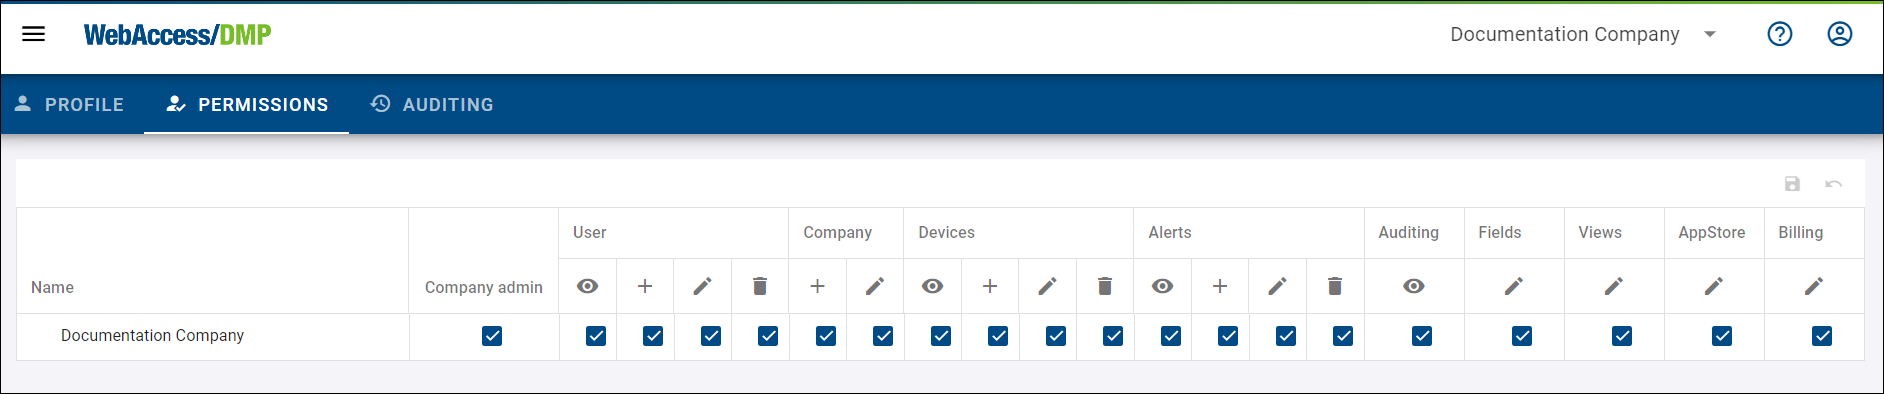
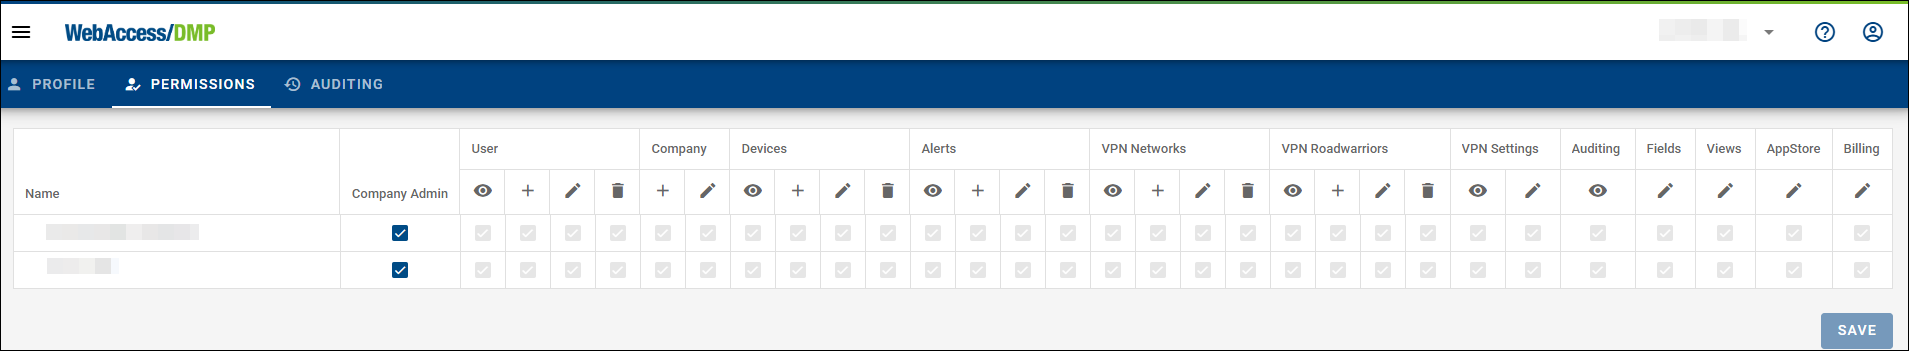
Updating VPN section according to feedback.

diff --git a/src/gen3/docs/vpn/networks/README.md b/src/gen3/docs/vpn/networks/README.md
@@ -1,8 +1,10 @@
-# Networks
+# Networks & Devices
 
 - Start by navigating to the VPN section in the Context Panel, then select the Networks section.
 
-![VPN Networks](../../images/vpn/vpn_networks_select.png)
+<p align="center">
+  <img src="../../images/vpn/vpn_networks_select.png" alt="VPN Networks">
+</p>
 
 - Here you'll be able to add new networks by clicking the **ADD** button.
 
@@ -12,9 +14,9 @@
 
 ![VPN Networks](../../images/vpn/vpn_networks_addnetwork.png)
 
-1. **All to All** &rarr; *All to All* refers to a network configuration where all devices or endpoints are connected to each other, allowing direct communication between every device in the network without restrictions. Each device can send and receive data to/from any other device.
+1. **All to All** &rarr; *All to All* refers to a network configuration where all devices are connected to each other, allowing direct communication between every device in the network without restrictions. Each device can send and receive data to and from any other device. Roadwarriors have a special role → they can see all devices, but the devices do not see them, so the Roadwarrior must initiate the communication. Roadwarriors also do not see each other.
 
-2. **Master to Slave** &rarr; *Master to Slave* refers to a network configuration where the Master device or server controls and manages the connections, while the Slave devices or clients follow the instructions and configurations set by the Master, often for centralized management and control.
+2. **Master to Slave** &rarr; *Master-to-Slave* refers to a network configuration where the Master device (server) controls and manages the connections, while the Slave devices follow its instructions. This setup is often used for centralized management and control. The Master and Slave devices always see each other, but a Slave device does not see other Slaves. Roadwarriors have a special → role they can see all devices (both Master and Slave), but the devices do not see them, so the Roadwarrior must initiate the communication. Roadwarriors do not see each other.
 
 - Once you've created your networks, you can either enter them by clicking on their name, or edit/delete them using the options on the right side of each line.
 ![VPN Networks](../../images/vpn/vpn_networks_select_2.png)
@@ -27,6 +29,8 @@
 
 ![VPN Networks](../../images/vpn/vpn_networks_add-device.png)
 
+- Using *Add Device*, a Roadwarrior can also be added to the network, and all of them are Clients.
+
 - You can now either enter your device by clicking its name, or use the options on the right side of its line to access the *Proxy Link*, edit its role, or delete it.
 
 ![VPN Networks](../../images/vpn/vpn_networks_proxy.png)
@@ -35,11 +39,12 @@
 
 ![VPN Networks](../../images/vpn/vpn_networks_master-slave.png)
 
+## Main VPN Device Interface 
+
 - Once you're in the device's VPN interface, you can configure the following settings:
 
-### Main VPN device interface
-
-1. Edit device VPN networks.
+1. Disable or Enable VPN client of the device
+2. Edit device VPN networks.
 
 ![VPN Networks](../../images/vpn/vpn_device_edit-networks.png)
 
@@ -49,7 +54,7 @@
 
 1. In the Proxy section, you can disable the proxy and reset its URL using the **DISABLE PROXY** and **RESET URL** buttons.
 
-2. You can add additional Proxy links, where you can specify the Local IP, CIDR, and Local Interface of the device.
+2. You can add additional Proxy links, where you can specify the Local IP, CIDR, and Local Interface of the device. This is useful when you have a device with a Web User Interface behind the router and want to access it directly via VPN. You need to know the address of the local network where the device behind the router is accessible. Note that adding a proxy link will expose the link to the Internet (it will automatically add a LAN interface on the LANs tab).
 
 ![VPN Networks](../../images/vpn/vpn_device-proxy_add.png)
 
@@ -63,11 +68,17 @@
 
 ![VPN Networks](../../images/vpn/vpn_device_lans_edit-subnet.png)
 
-2. Add additional LAN interfaces by clicking the **ADD** button.
+2. Add additional LAN interfaces by clicking the **ADD** button. Adding a LAN interface enables direct access via VPN to any device behind the router. 1:1 NAT is used; to find the VPN IP address of your locally known device, use the provided address translator (magnifying glass icon for the added interface).
 
 ![VPN Networks](../../images/vpn/vpn_device_lans_add-lan-interface.png)
 
 3. Delete the LAN interfaces from the device.
+
+4. Access Local Address Translator. You can then access your device directly in the VPN network, e.g., via SSH.
+
+<p align="center">
+  <img src="../../images/vpn/vpn_device-lans-access.png" alt="VPN Networks">
+</p>
 
 ### DATA USAGE
 

diff --git a/src/gen3/docs/vpn/overview/README.md b/src/gen3/docs/vpn/overview/README.md
@@ -6,11 +6,13 @@ prev: ../../vpn/
 
 - Start by navigating to the VPN section in the Context Panel, then select the Overview section.
 
-![VPN Overview](../../images/vpn/vpn_overview_select.png)
+<p align="center">
+  <img src="../../images/vpn/vpn_overview_select.png" alt="VPN Overview">
+</p>
 
-- By default, you will see that the VPN is not running and is in **Offline** mode.
+- By default, you will see that the VPN is in **Running** mode.
 
-![VPN Overview](../../images/vpn/vpn_overview_stopped.png)
+![VPN Overview](../../images/vpn/vpn_overview_running.png)
 
 By default, the overview displays the following information:
 
@@ -20,14 +22,28 @@ By default, the overview displays the following information:
 
 - Additionally, there are two fields: *Data Usage per Month* and *Detailed Data Usage*.
 
-- You can start it by clicking the green **START** button.
+- You can stop it by clicking the red **STOP** button.
 
-![VPN Overview](../../images/vpn/vpn_overview_running.png)
+![VPN Overview](../../images/vpn/vpn_overview_stopped.png)
 
-- As mentioned in the introduction, the "days left" indicate when the VPN feature will be disabled for this company.
+- As mentioned in the introduction (this applies only for Free companies, doesn't show up if you have Premium), the "days left" indicate when the VPN feature will be disabled for this company.
 
 ![VPN Overview](../../images/vpn/vpn_overview_trial.png)
 
 - In this section you can also edit your VPN configuration by clicking on the **CONFIGURATION** button as showcased on the picture below, and confirm it with the **CONFIRM** button.
 
 ![VPN Overview](../../images/vpn/vpn_overview_config.png)
+
+- Modifying settings in the **Danger Zone** section can have significant impacts on your VPN network. Reconfiguring the VPN will remap device addresses, which may lead to connection loss, especially if other services, settings, or devices depend on the existing configuration.
+
+- This can affect:
+
+1. Connected devices behind routers
+2. *Roadwarriors*, who may no longer be able to connect
+3. Existing network settings and communication
+
+- Because of these potential disruptions, it is highly recommended to carefully review and update all dependent configurations after making changes in the Danger Zone.
+
+::: tip VPN Fields:
+- On the dashboard, you can add VPN-related fields to create a dedicated VPN overview. You can include columns such as Network Membership, VPN Connection Status, VPN IP, VPN Data Used, and more for a clear and organized view of your VPN details. 
+:::

diff --git a/src/gen3/docs/device-management/fields/README.md b/src/gen3/docs/device-management/fields/README.md
@@ -38,9 +38,9 @@ These fields hold constant information that typically doesn't change over time. 
 - Description
 - Serial Number
 - IMEI
-- VPN IP Address
-- VPN Proxy Link
-- VPN Subnet
+- VPN IP Address (if the VPN has been initialized)
+- VPN Proxy Link (if the VPN has been initialized)
+- VPN Subnet (if the VPN has been initialized)
 
 #### Monitoring Fields
 
@@ -60,7 +60,7 @@ These fields aggregate monitoring data over time to give a comprehensive view of
 - Data Uploaded (cumulative)
 - Data Up+Down (cumulative)
 - Reconnects Count
-- VPN Connected
+- VPN Connected (if the VPN has been initialized)
 
 #### Configuration Fields
 
@@ -101,10 +101,10 @@ There is a set of default Fields listed below, that you will find in the _Fields
 | Serial Number             | Serial number of a device.                                                                       |
 | SIM Card                  | Active SIM card.                                                                                 |
 | Synchronization Status    | Synchronization status of device.                                                                |
-| VPN Connected             | Indicates whether the device is connected to the VPN hub.                                        |
-| VPN IP Address            | VPN IP address of the device.                                                                    |
-| VPN Proxy Link            | Link for accessing router`s UI from browser through VPN.                                         |
-| VPN Subnet                | VPN subnet of the device.                                                                        |
+| VPN Connected             | Indicates whether the device is connected to the VPN hub. (if the VPN has been initialized)      |
+| VPN IP Address            | VPN IP address of the device. (if the VPN has been initialized)                                  |
+| VPN Proxy Link            | Link for accessing router`s UI from browser through VPN. (if the VPN has been initialized)       |
+| VPN Subnet                | VPN subnet of the device. (if the VPN has been initialized)                                      |
 
 &nbsp;  
 &nbsp;

diff --git a/src/gen3/docs/vpn/roadwarriors/README.md b/src/gen3/docs/vpn/roadwarriors/README.md
@@ -4,11 +4,13 @@ next: ../../device-monitoring/
 
 # Roadwarriors
 
-Roadwarriors refers to a VPN configuration designed for mobile users who need secure remote access to a private network from various locations. Unlike site-to-site VPNs, which connect fixed networks, a Roadwarrior setup allows individual devices with dynamic IP addresses to establish encrypted connections over untrusted networks, such as public Wi-Fi or mobile data. This approach ensures secure access to corporate resources, protects sensitive data, and enhances online privacy.
+Roadwarriors refer to a VPN configuration designed for mobile users (Windows, Android, macOS, iOS, Linux and basically any device where [WireGuard](https://www.wireguard.com/install/) can be installed) who need secure remote access to a private network from various locations. Unlike site-to-site VPNs, which connect fixed networks, a Roadwarrior setup allows individual devices with dynamic IP addresses to establish encrypted connections over untrusted networks, such as public Wi-Fi or mobile data. This approach ensures secure access to corporate resources, protects sensitive data, and enhances online privacy.
 
 - Start by navigating to the VPN section in the Context Panel, then select the Roadwarriors section.
 
-![VPN Road Warriors](../../images/vpn/vpn_roadwarrior_panel.png)
+<p align="center">
+  <img src="../../images/vpn/vpn_roadwarrior_panel.png" alt="VPN Road Warriors">
+</p>
 
 - Next, add your Roadwarrior by clicking the **ADD ROADWARRIOR** button.
 
@@ -27,6 +29,8 @@ Roadwarriors refers to a VPN configuration designed for mobile users who need se
 ![VPN Road Warriors](../../images/vpn/vpn_roadwarrior_edit.png)
 
 1. You can view your Roadwarrior's details by clicking on its name and specify the configuration here.
+
+- In the Roadwarrior's details, you can edit its configuration, including the name, description, and networks → essentially the same parameters as when it was created. You can also disable/enable or delete it. Below, you’ll find information about its *Data Usage* and *Connection History*.
 
 ![VPN Road Warriors](../../images/vpn/vpn_roadwarrior_detail.png)
 

diff --git a/src/gen3/docs/vpn/README.md b/src/gen3/docs/vpn/README.md
@@ -14,12 +14,19 @@ WADMP VPN utilizes WireGuard, a modern and high-performance VPN protocol known f
 This section will guide you through the key functionalities of WADMP VPN, its setup process, and best practices for ensuring secure and reliable connectivity within your network infrastructure.
 
 - Start by navigating to the title panel and selecting the VPN section.
-![VPN Selection](../images/vpn/dashboard_vpn.png)
+<p align="center">
+  <img src="../images/vpn/dashboard_vpn.png" alt="VPN Selection">
+</p>
 
 - Click the INITIALIZE button to start your 31-day free trial with 100MB of starting data for your company. If you don’t upgrade to the premium company plan, the feature will be disabled after the trial period.
 ![VPN Initialize](../images/vpn/vpn_initialize.png)
 
+- In the initialization form when configuring a VPN, selecting the correct network address is crucial. The VPN address defines the entire network for the company, including all connected devices. This address must be specified in CIDR notation, which determines the size of the network and how many devices can be accommodated.
+
+- Additionally, the CIDR range and Addresses per Device settings influence the total number of available device connections. As you adjust these values, the system automatically recalculates the maximum number of devices that can be supported within the network.
+
 - Next, complete the initialization form with your corresponding configuration. Once done, click the Initialize button to proceed.
+
 ![VPN Initialize](../images/vpn/vpn_initialize_form.png)
 
 - For detailed information on billing, go to [Billing](../companies/billing/) and navigate to the VPN Billing Summary section.

diff --git a/src/gen3/docs/companies/billing/README.md b/src/gen3/docs/companies/billing/README.md
@@ -30,10 +30,10 @@ By clicking the Billing summary, you can go to the Billing Detail page, where yo
 
 ### VPN Billing Summary ###
 
-- Premium companies are charged 2 euros per GB. Additionally, there is a 2-euro charge per device. In the Parent Company settings under Companies → Edit, a data limit is defined for the entire company structure, including all subcompanies. Each subcompany, including the parent company, can independently purchase additional data (VPN Overview → Buy Data). These purchases are counted toward the overall data limit and are billed accordingly.
+- Premium companies are charged a fixed rate per GB of data, along with an additional charge per device. In the Parent Company settings under Companies → Edit, a data limit is defined for the entire company structure, including all subcompanies. Each subcompany, including the parent company, can independently purchase additional data (VPN Overview → Buy Data). These purchases count toward the overall data limit and are billed accordingly.
 
-- Data is billed as a one-time charge in the month of purchase and remains available until fully consumed—it does not expire at the end of the billing cycle.
+- Data is billed as a one-time charge in the month of purchase and remains available until fully consumed → it does not expire at the end of the billing cycle.
 
-- Roadwarrior VPN users are billed in the same manner as devices, at a rate of 2 euros per user.
+- Roadwarrior VPN users are billed in the same manner as devices, with a fixed charge per user.
 
 

diff --git a/src/gen3/docs/user-management/permissions/README.md b/src/gen3/docs/user-management/permissions/README.md
@@ -59,7 +59,27 @@ Managing Other Users:
   - Edit: Allows editing of existing Alerts, History, Rules & Endpoints.
   - Delete: Allows deletion of Alerts, History, Rules & Endpoints.
 
+- VPN Networks
+
+  - View: Allows viewing a list of Alerts, History, Rules & Endpoints.
+  - Create: Allows the creation of new Alerts, History, Rules & Endpoints.
+  - Edit: Allows editing of existing Alerts, History, Rules & Endpoints.
+  - Delete: Allows deletion of Alerts, History, Rules & Endpoints.
+
+- VPN Roadwarrios
+
+  - View: Allows viewing a list of Alerts, History, Rules & Endpoints.
+  - Create: Allows the creation of new Alerts, History, Rules & Endpoints.
+  - Edit: Allows editing of existing Alerts, History, Rules & Endpoints.
+  - Delete: Allows deletion of Alerts, History, Rules & Endpoints.
+
+- VPN Settings
+
+  - View: Allows viewing a list of Alerts, History, Rules & Endpoints.
+  - Edit: Allows editing of existing Alerts, History, Rules & Endpoints.
+
 - Additional Permissions:
+
   - Auditing: View auditing details.
   - Fields: Manage fields.
   - Views: Manage views.
